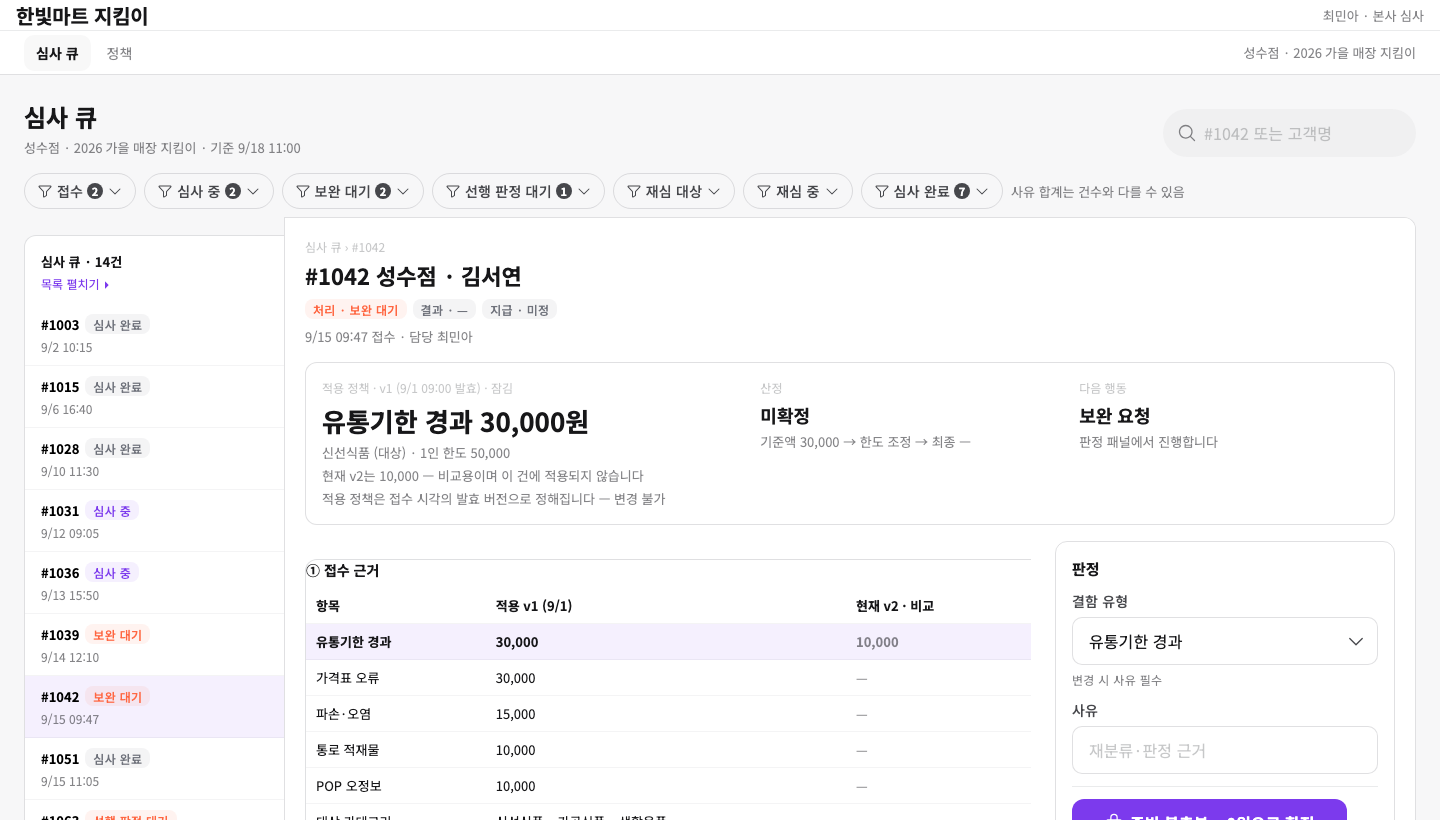
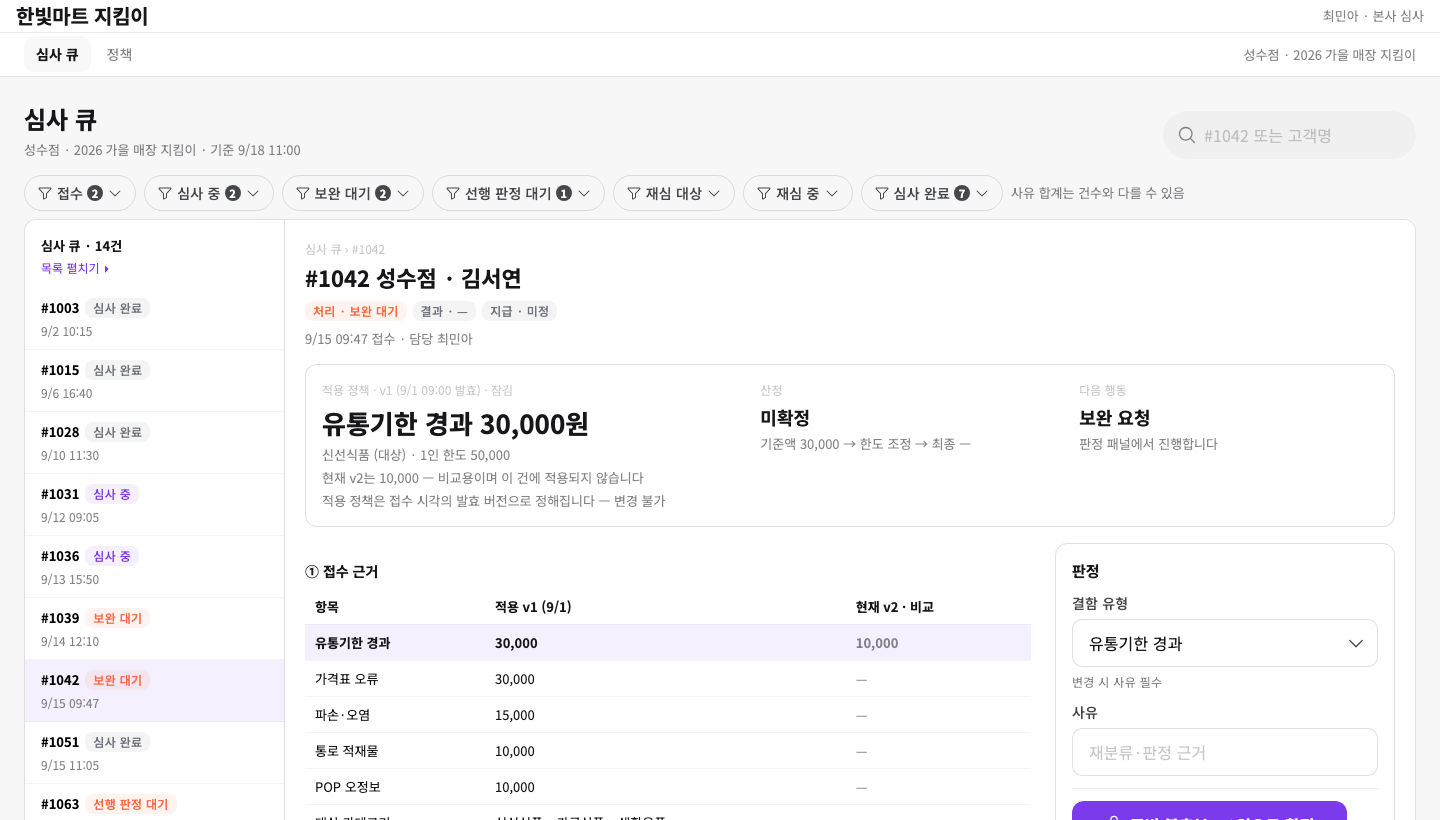
fix(app): 상세의 각 절이 잘린 박스로 보이던 문제
목록 레일에 준 .rail 스타일이 상세의 ①~⑥ 절(.rail)에도 먹었다.
같은 클래스 이름을 쓴 탓에 각 절이 오른쪽 테두리 없는 박스가 되고
제목이 모서리에 붙었다. 목록 쪽을 .queue-rail 계열로 분리했다.

갤러리 캡처 9장도 고친 화면으로 다시 찍었다.

diff --git a/app/src/app.css b/app/src/app.css
@@ -125,21 +125,21 @@ table.basis tr.emph td { background: var(--iris-semantic-background-status-info)
 /* ── 3안 · 접히는 목록 레일 ── */
 .list.full { padding: 0; }
 .workspace { grid-template-columns: 260px minmax(0, 1fr); gap: 0; }
-.rail { background: var(--iris-semantic-background-normal-normal);
+.queue-rail { background: var(--iris-semantic-background-normal-normal);
   border: 1px solid var(--iris-semantic-line-normal-normal); border-right: 0;
   border-radius: var(--iris-radius-md) 0 0 var(--iris-radius-md); padding-bottom: 8px; }
-.rail-head { display: grid; gap: 4px; padding: 16px 16px 12px; }
-.rail-head b { font-size: 13px; }
-.rail-expand { border: 0; background: none; padding: 0; text-align: left; cursor: pointer;
+.queue-rail-head { display: grid; gap: 4px; padding: 16px 16px 12px; }
+.queue-rail-head b { font-size: 13px; }
+.queue-rail-expand { border: 0; background: none; padding: 0; text-align: left; cursor: pointer;
   font-size: 12px; color: var(--iris-semantic-primary-normal); }
-.rail-row { display: grid; gap: 4px; width: 100%; text-align: left; cursor: pointer;
+.queue-rail-row { display: grid; gap: 4px; width: 100%; text-align: left; cursor: pointer;
   border: 0; border-bottom: 1px solid var(--iris-semantic-line-normal-alternative);
   background: none; padding: 10px 16px; }
-.rail-row.on { background: var(--iris-semantic-background-status-info); }
-.rail-row:hover { background: var(--iris-semantic-fill-alternative); }
-.rail-row .rr-top { display: flex; align-items: center; gap: 6px; }
-.rail-row .rr-top b { font-size: 13px; }
-.rail-row .rr-at { font-size: 12px; color: var(--iris-semantic-label-alternative); }
+.queue-rail-row.on { background: var(--iris-semantic-background-status-info); }
+.queue-rail-row:hover { background: var(--iris-semantic-fill-alternative); }
+.queue-rail-row .rr-top { display: flex; align-items: center; gap: 6px; }
+.queue-rail-row .rr-top b { font-size: 13px; }
+.queue-rail-row .rr-at { font-size: 12px; color: var(--iris-semantic-label-alternative); }
 .preview { border-radius: 0 var(--iris-radius-md) var(--iris-radius-md) 0; }
 
 /* 판정 패널을 본문 오른쪽 고정 열로 */

diff --git a/app/src/ui/Queue.tsx b/app/src/ui/Queue.tsx
@@ -55,13 +55,13 @@ export function Queue({ children }: { children: React.ReactNode }) {
         </div>
       ) : selected ? (
         <div className="workspace">
-          <aside className="rail">
-            <div className="rail-head">
+          <aside className="queue-rail">
+            <div className="queue-rail-head">
               <b>심사 큐 · {rows.length}건</b>
-              <button className="rail-expand" onClick={() => d({ t: 'select', id: null })}>목록 펼치기 ▸</button>
+              <button className="queue-rail-expand" onClick={() => d({ t: 'select', id: null })}>목록 펼치기 ▸</button>
             </div>
             {rows.map((r) => (
-              <button key={r.id} className={`rail-row${r.id === selected ? ' on' : ''}`}
+              <button key={r.id} className={`queue-rail-row${r.id === selected ? ' on' : ''}`}
                 onClick={() => d({ t: 'select', id: r.id })}>
                 <span className="rr-top"><b>{r.id}</b><ProcessBadge v={r.process} /></span>
                 <span className="rr-at">{fmt(r.submittedAt)}</span>
